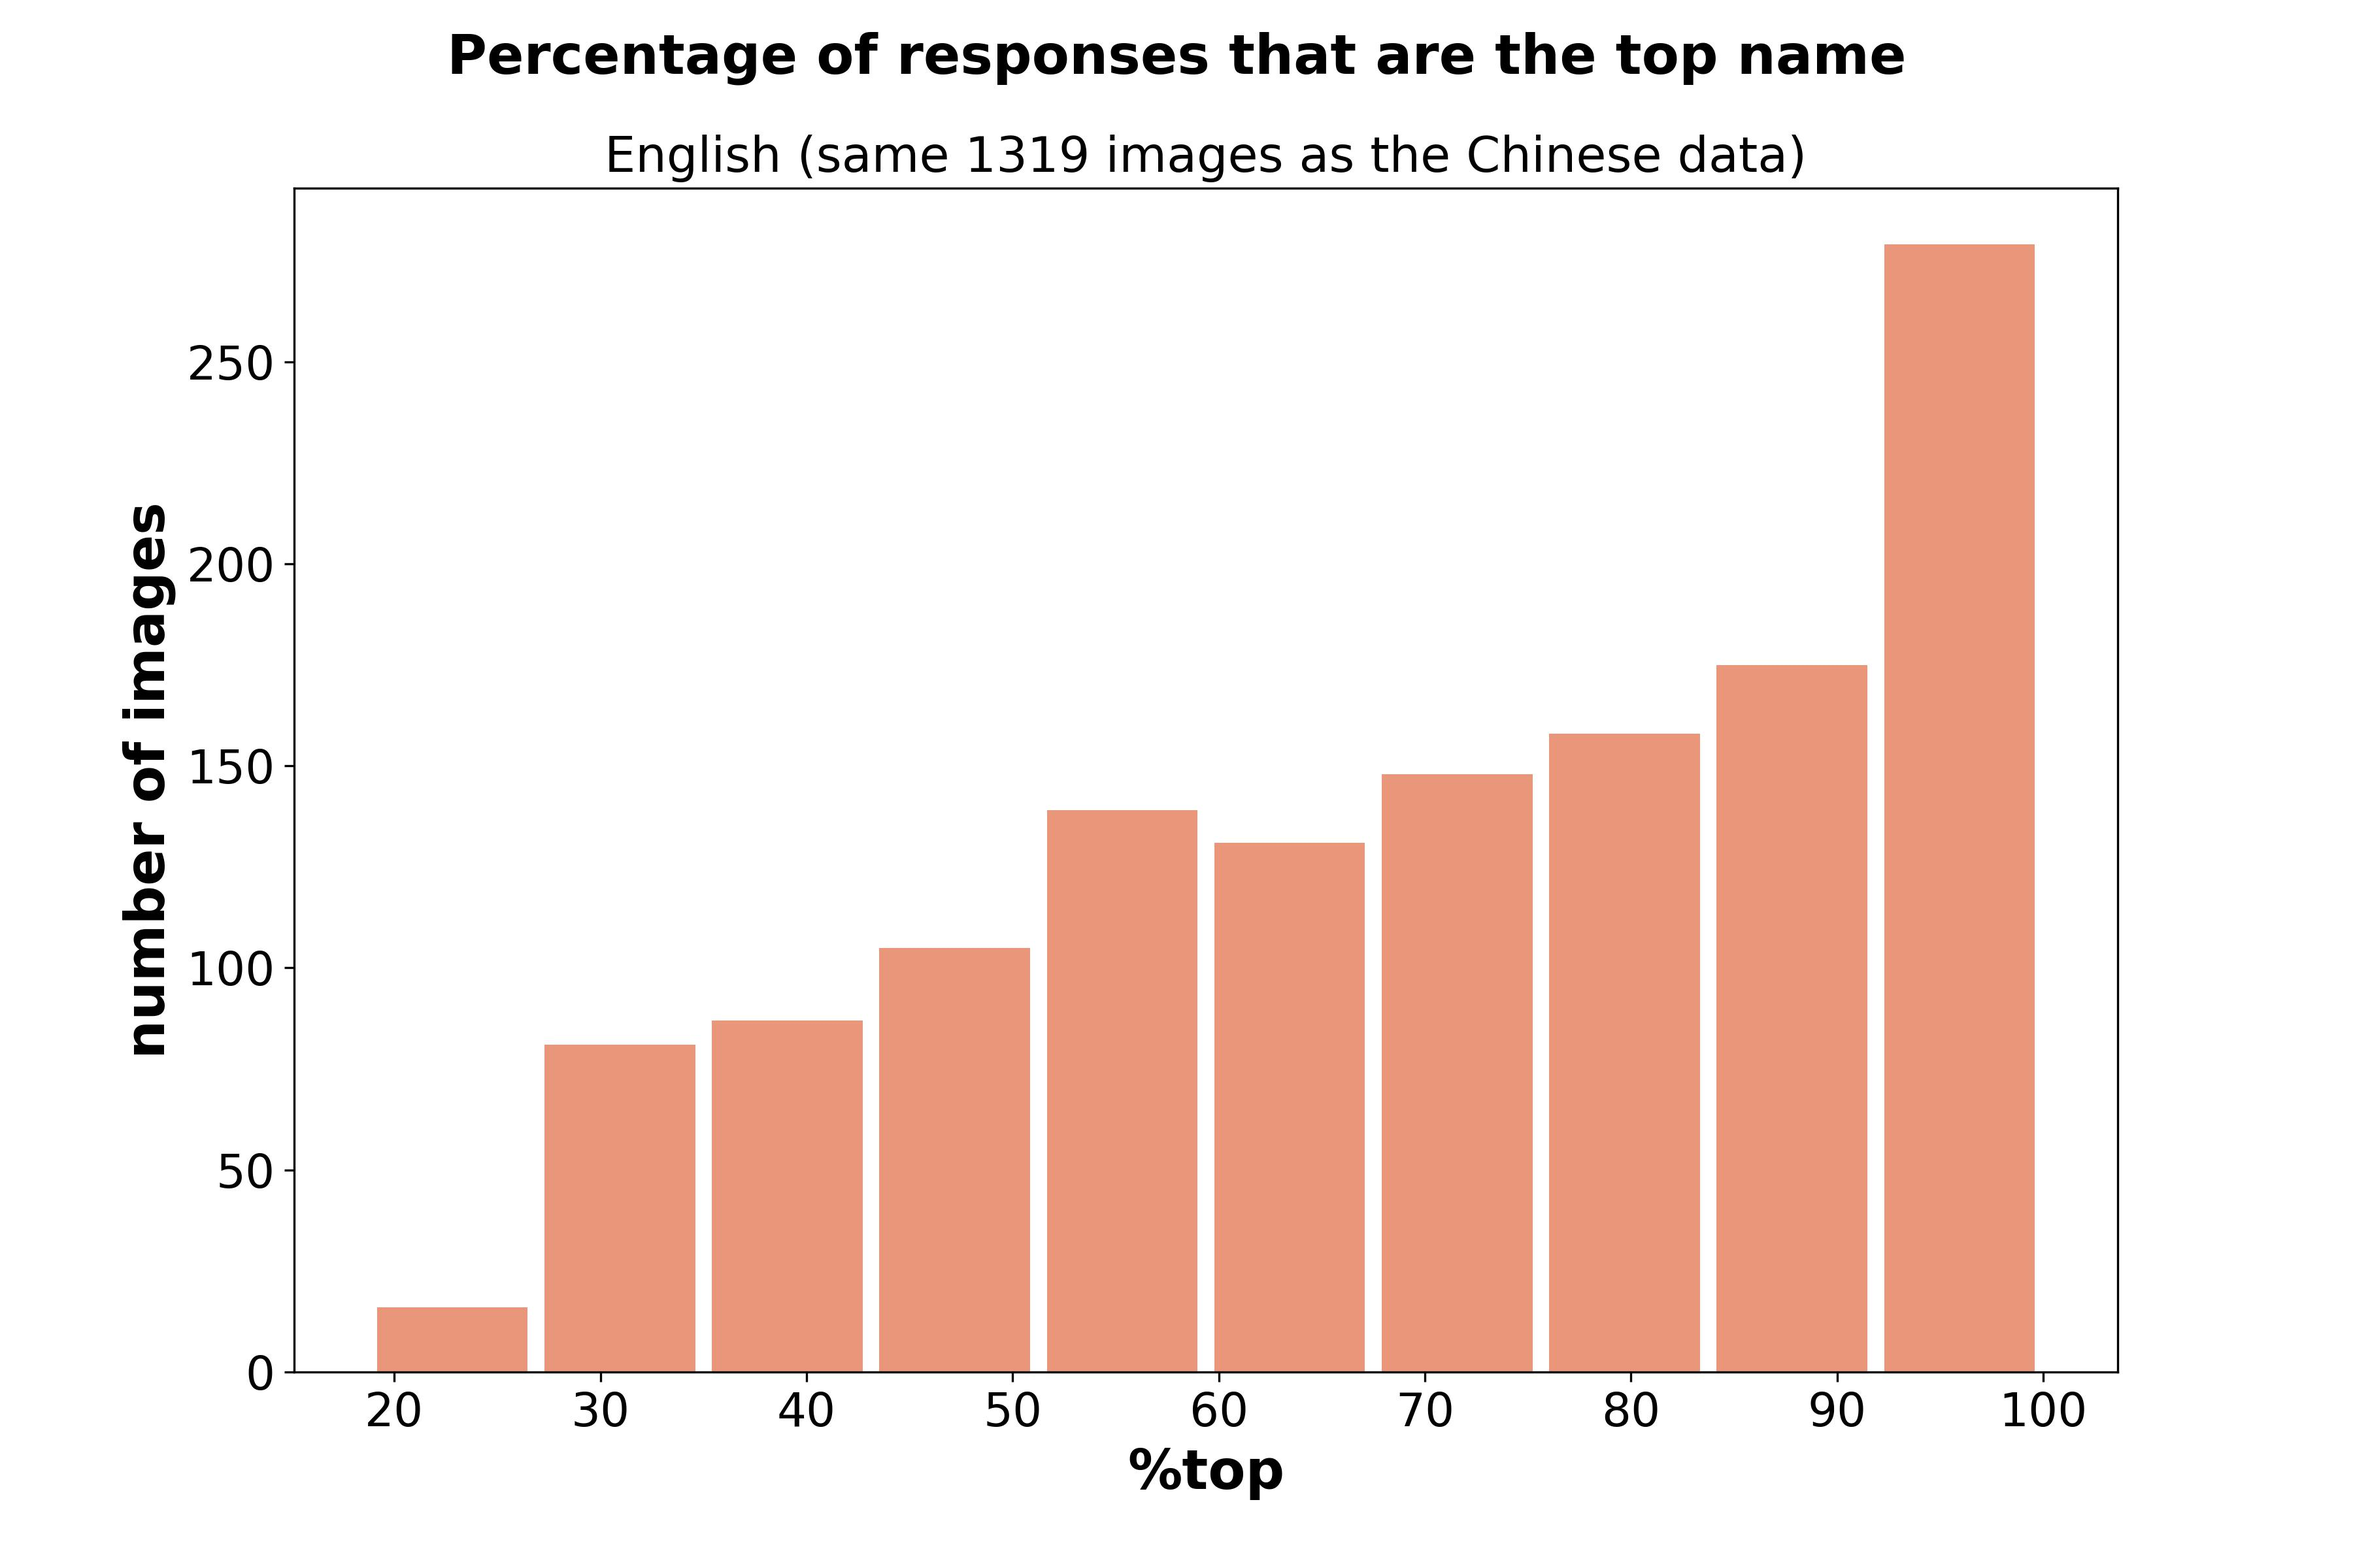
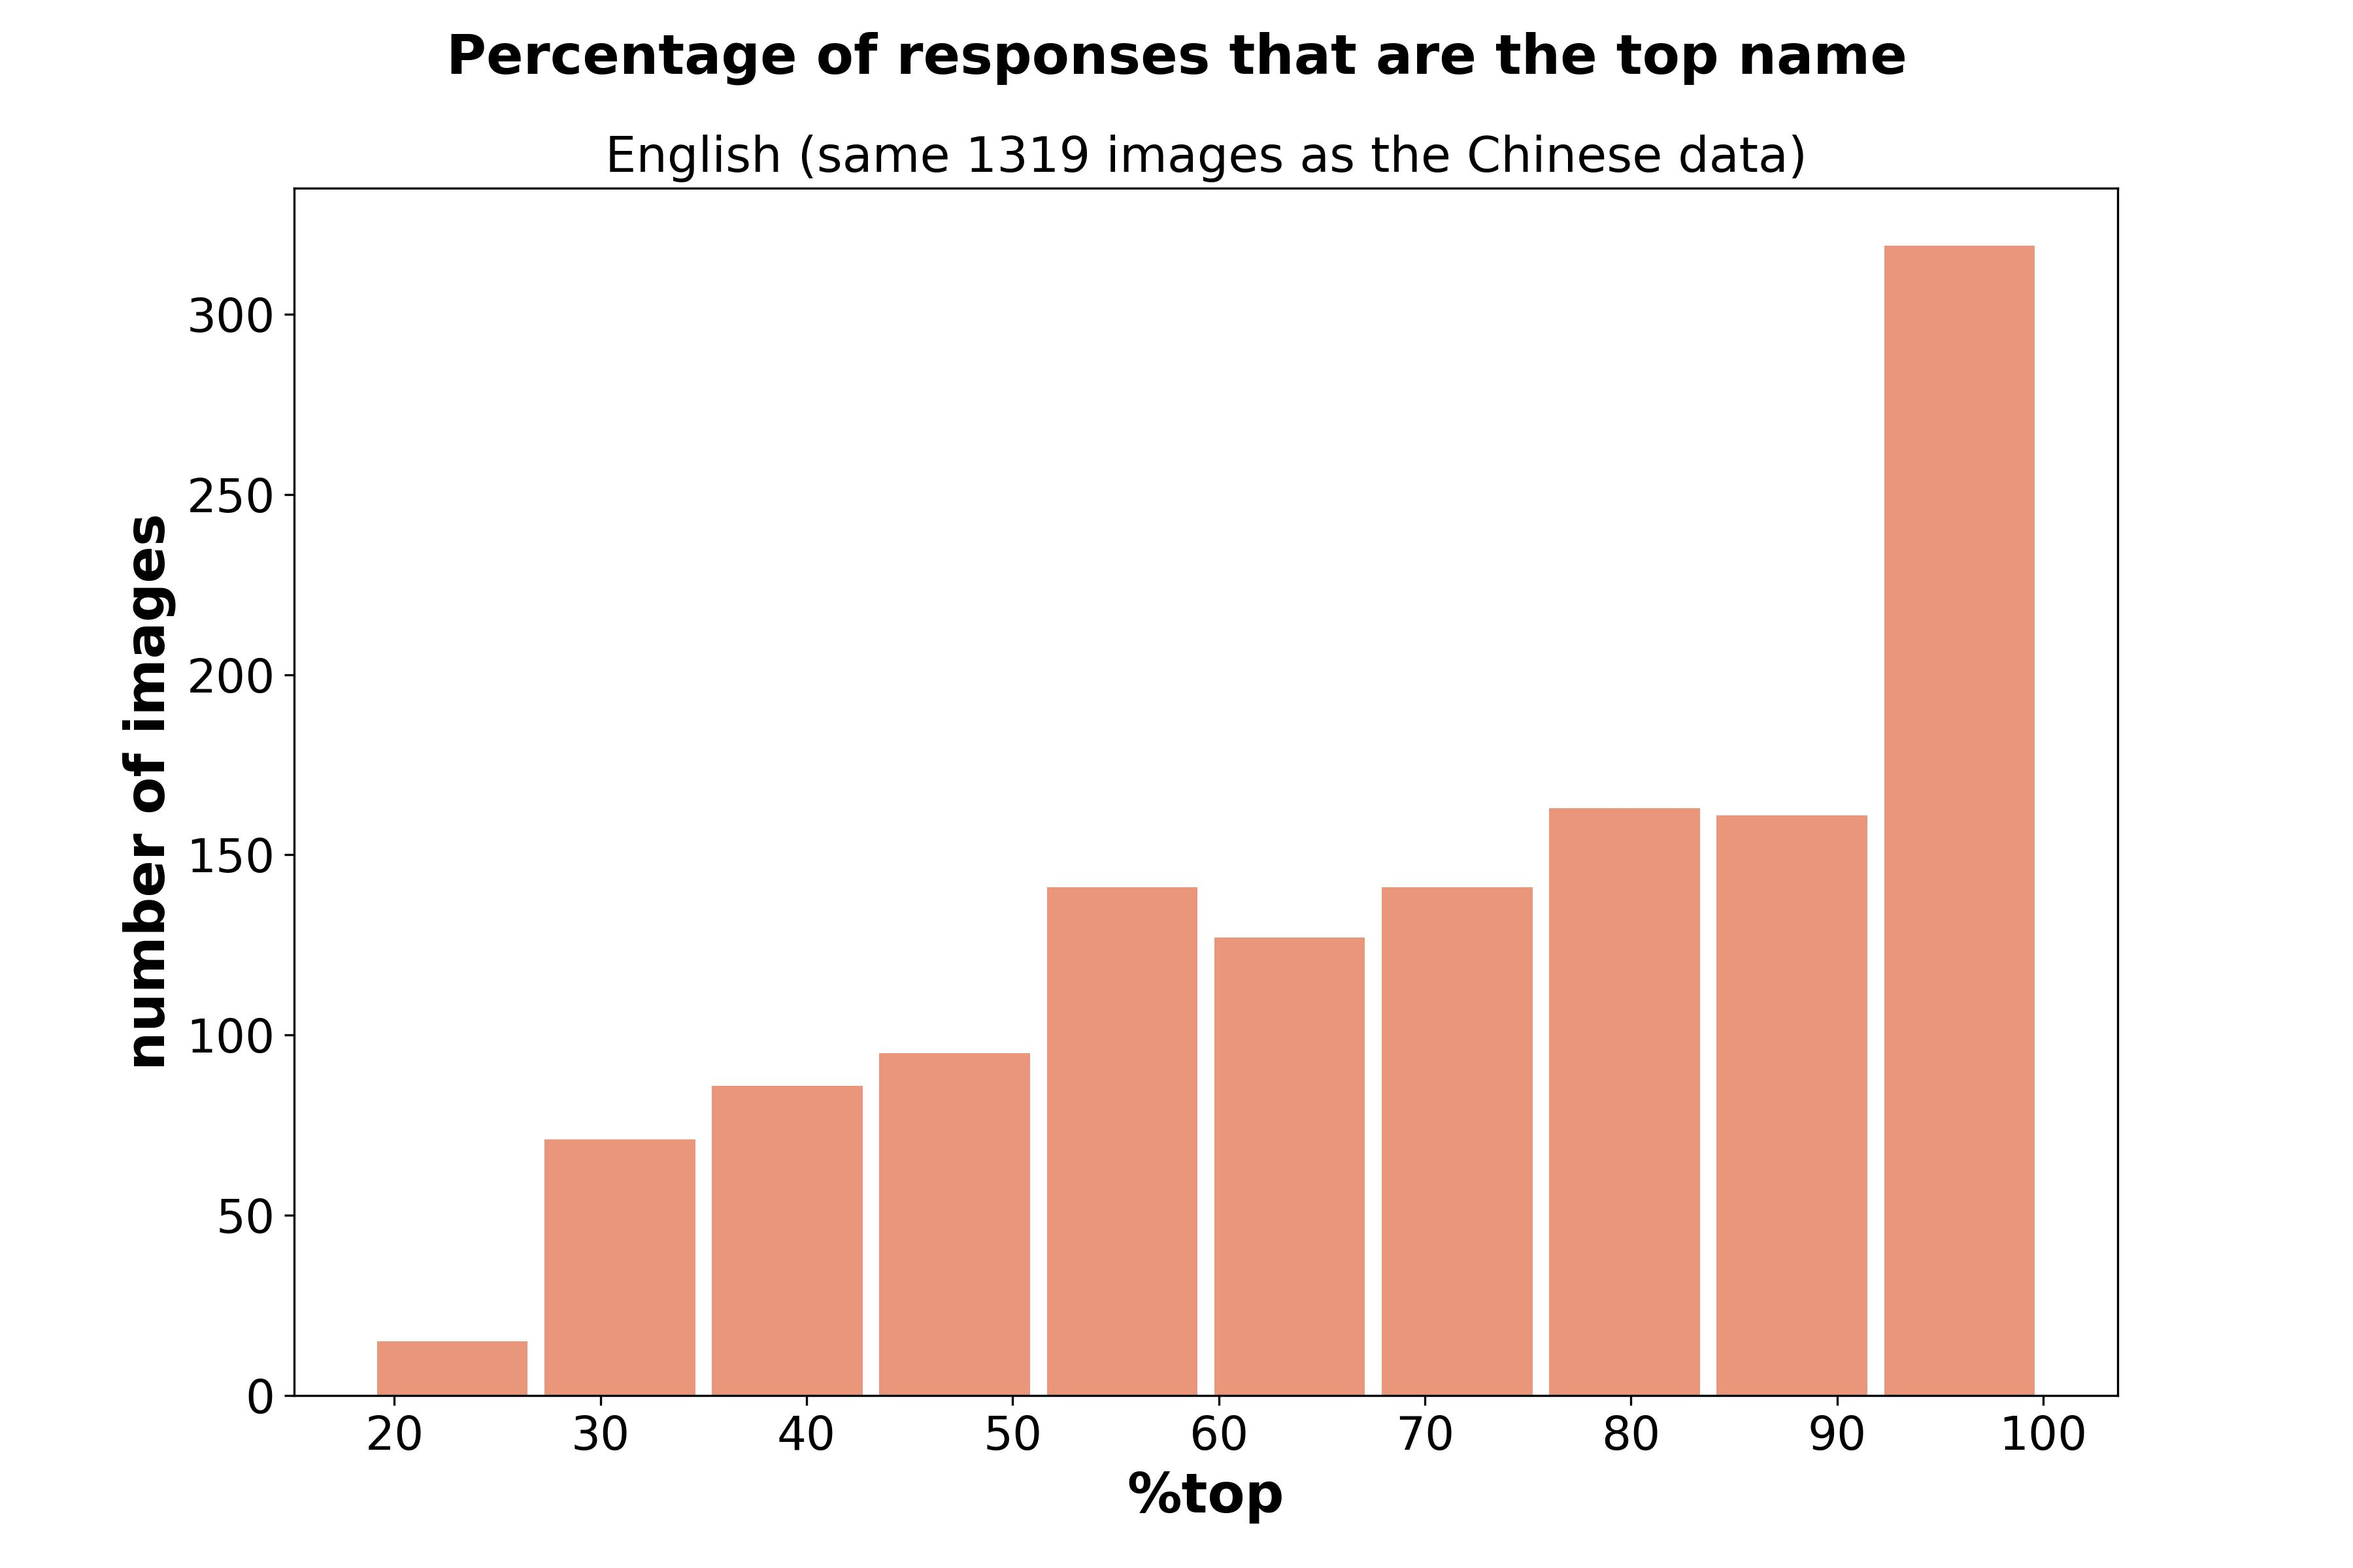
small fix

diff --git a/docs/stats.html b/docs/stats.html
@@ -43,22 +43,22 @@
             </tr>
             <tr>
               <th scope="row">Number of names (tokens)</th>
-              <td>82964</td>
-              <td>8399</td>
+              <td>785770</td>
+              <td>26579</td>
             </tr>
             <tr>
               <th scope="row">Number of names (types)</th>
-              <td>3098</td>
+              <td>2380</td>
               <td>2252</td>
             </tr>
             <tr>
               <th scope="row">Average number of names per pic</th>
-              <td>3.3</td>
+              <td>2.8</td>
               <td>6.4</td>
             </tr>
             <tr>
               <th scope="row">Min. / max. number of names per pic</th>
-              <td>1 / 14</td>
+              <td>1 / 11</td>
               <td>1 / 17</td>
             </tr>
           </tbody>
@@ -130,50 +130,50 @@
           <tbody>
             <tr>
               <th scope="row">all</th>
-              <td>3.3</td>
-              <td>77.4 (20.8)</td>
-              <td>0.9 (0.7)</td>
-            </tr>
-            <tr>
-              <th scope="row">clothing</th>
-              <td>3.6</td>
-              <td>73.4 (17.9)</td>
-              <td>1.0 (0.6)</td>
-            </tr>
-            <tr>
-              <th scope="row">food</th>
-              <td>3.6</td>
-              <td>77.0 (19.4)</td>
-              <td>0.9 (0.7)</td>
-            </tr>
-            <tr>
-              <th scope="row">animals_plants</th>
-              <td>1.8</td>
-              <td>94.0 (11.8)</td>
-              <td>0.3 (0.4)</td>
-            </tr>
-            <tr>
-              <th scope="row">people</th>
-              <td>5</td>
-              <td>61.3 (20.5)</td>
-              <td>1.5 (0.7)</td>
-            </tr>
-            <tr>
-              <th scope="row">buildings</th>
-              <td>3.1</td>
-              <td>79.7 (19.5)</td>
+              <td>2.8</td>
+              <td>78.5 (20.7)</td>
               <td>0.8 (0.7)</td>
             </tr>
             <tr>
-              <th scope="row">home</th>
+              <th scope="row">clothing</th>
               <td>3.1</td>
-              <td>78.3 (19.0)</td>
+              <td>74.6 (18.0)</td>
+              <td>0.9 (0.6)</td>
+            </tr>
+            <tr>
+              <th scope="row">food</th>
+              <td>3.0</td>
+              <td>78.4 (19.2)</td>
               <td>0.8 (0.6)</td>
             </tr>
             <tr>
+              <th scope="row">animals_plants</th>
+              <td>1.7</td>
+              <td>94.4 (11.6)</td>
+              <td>0.2 (0.4)</td>
+            </tr>
+            <tr>
+              <th scope="row">people</th>
+              <td>4.4</td>
+              <td>62.4 (20.7)</td>
+              <td>1.4 (0.6)</td>
+            </tr>
+            <tr>
+              <th scope="row">buildings</th>
+              <td>2.5</td>
+              <td>81.2 (19.4)</td>
+              <td>0.7 (0.6)</td>
+            </tr>
+            <tr>
+              <th scope="row">home</th>
+              <td>2.5</td>
+              <td>79.7 (19.0)</td>
+              <td>0.7 (0.6)</td>
+            </tr>
+            <tr>
               <th scope="row">vehicles</th>
-              <td>3.2</td>
-              <td>76.6 (19.5)</td>
+              <td>2.7</td>
+              <td>77.5 (19.6)</td>
               <td>0.8 (0.6)</td>
             </tr>
           </tbody>
@@ -194,9 +194,9 @@
           <tbody>
             <tr>
               <th scope="row">all</th>
-              <td>3.3</td>
-              <td>77.4 (20.8)</td>
-              <td>0.9 (0.7)</td>
+              <td>6.4</td>
+              <td>53.7 (21.1)</td>
+              <td>1.9 (0.8)</td>
             </tr>
             <tr>
               <th scope="row">clothing</th>
@@ -230,7 +230,7 @@
             </tr>
             <tr>
               <th scope="row">home</th>
-              <td>6</td>
+              <td>6.0</td>
               <td>59.6 (22.0)</td>
               <td>1.7 (0.9)</td>
             </tr>
@@ -258,51 +258,51 @@
           <tbody>
             <tr>
               <th scope="row">all</th>
-              <td>3.9</td>
-              <td>70.5 (21.6)</td>
-              <td>1.1 (0.7)</td>
+              <td>3.4</td>
+              <td>71.7 (21.6)</td>
+              <td>1.0 (0.7)</td>
             </tr>
             <tr>
               <th scope="row">clothing</th>
-              <td>3.9</td>
-              <td>68.2 (20.7)</td>
-              <td>1.2 (0.7)</td>
+              <td>3.5</td>
+              <td>69.2 (20.9)</td>
+              <td>1.1 (0.7)</td>
             </tr>
             <tr>
               <th scope="row">food</th>
-              <td>4.4</td>
-              <td>64.8 (20.0)</td>
-              <td>1.3 (0.7)</td>
+              <td>3.8</td>
+              <td>66.0 (20.1)</td>
+              <td>1.2 (0.6)</td>
             </tr>
             <tr>
               <th scope="row">animals_plants</th>
-              <td>3.0</td>
-              <td>80.7 (18.9)</td>
-              <td>0.8 (0.6)</td>
+              <td>2.7</td>
+              <td>81.5 (18.8)</td>
+              <td>0.7 (0.6)</td>
             </tr>
             <tr>
               <th scope="row">people</th>
-              <td>4.8</td>
-              <td>62.8 (21.7)</td>
-              <td>1.4 (0.7)</td>
+              <td>4.2</td>
+              <td>71.7 (21.6)</td>
+              <td>1.0 (0.7)</td>
             </tr>
             <tr>
               <th scope="row">buildings</th>
-              <td>3.6</td>
-              <td>75.3 (22.4)</td>
-              <td>1.0 (0.8)</td>
+              <td>2.9</td>
+              <td>76.8 (22.5)</td>
+              <td>0.8 (0.7)</td>
             </tr>
             <tr>
               <th scope="row">home</th>
-              <td>3.1</td>
-              <td>76.4 (19.5)</td>
-              <td>0.9 (0.6)</td>
+              <td>2.6</td>
+              <td>77.6 (19.2)</td>
+              <td>0.8 (0.6)</td>
             </tr>
             <tr>
               <th scope="row">vehicles</th>
-              <td>3.7</td>
-              <td>71.0 (20.2)</td>
-              <td>1.1 (0.6)</td>
+              <td>3.3</td>
+              <td>72.0 (20.5)</td>
+              <td>1.0 (0.6)</td>
             </tr>
           </tbody>
         </table>

diff --git a/scripts/plot_distr_topnames.py b/scripts/plot_distr_topnames.py
@@ -52,7 +52,8 @@ def plot_function(domain, ax, nm2domain, domain_gdf, domains, lang, text_fontsiz
     """
     A bit hacky function to create a stacked bar plot for an individual MN domain.
     """
-    num_1domain = domain_gdf.loc[domain][domain_gdf.loc[domain]>0].sort_values(ascending=False)
+    domain_gdf_numeric = domain_gdf.apply(pd.to_numeric, errors='coerce')
+    num_1domain = domain_gdf_numeric.loc[domain][domain_gdf_numeric.loc[domain] > 0].sort_values(ascending=False)
 
     a = num_1domain.unstack(fill_value=0)
     
